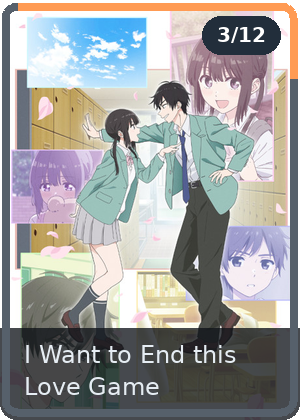
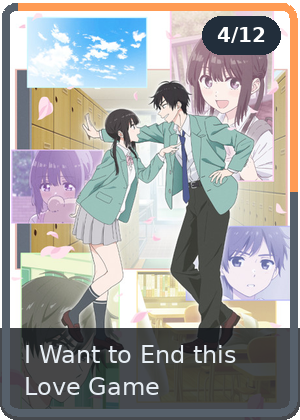
feat: show anime and manga together on profile

Changed region(s): [[0.96, 0.1857, 1.0, 0.4643], [0.72, 0.0619, 0.78, 0.1238]]

diff --git a/scripts/update_anime.py b/scripts/update_anime.py
@@ -12,11 +12,11 @@ from PIL import Image, ImageDraw, ImageFont, ImageOps
 
 USER = os.environ.get("ANILIST_USER", "Suzune889")
 README = Path(__file__).resolve().parent.parent / "README.md"
-CARDS = README.parent / "assets" / "anime"
+ASSETS = README.parent / "assets"
 USER_AGENT = "Suzune-Profile-Anime/1.0 (+https://github.com/midori-suzune/midori-suzune)"
 QUERY = """
 query ($name: String) {
-  Page(perPage: 6) {
+  anime: Page(perPage: 3) {
     mediaList(userName: $name, type: ANIME, sort: UPDATED_TIME_DESC) {
       progress
       media {
@@ -24,6 +24,18 @@ query ($name: String) {
         title { english romaji }
         siteUrl
         episodes
+        coverImage { extraLarge }
+      }
+    }
+  }
+  manga: Page(perPage: 3) {
+    mediaList(userName: $name, type: MANGA, sort: UPDATED_TIME_DESC) {
+      progress
+      media {
+        id
+        title { english romaji }
+        siteUrl
+        chapters
         coverImage { extraLarge }
       }
     }
@@ -39,10 +51,7 @@ def fetch_items():
         headers={
             "Content-Type": "application/json",
             "Accept": "application/json",
-            "User-Agent": (
-                "Suzune-Profile-Anime/1.0 "
-                "(+https://github.com/midori-suzune/midori-suzune)"
-            ),
+            "User-Agent": USER_AGENT,
         },
     )
     try:
@@ -53,10 +62,11 @@ def fetch_items():
         raise RuntimeError(f"AniList HTTP {error.code}: {detail}") from error
     if payload.get("errors"):
         raise RuntimeError("AniList API error: " + json.dumps(payload["errors"]))
-    items = payload["data"]["Page"]["mediaList"]
-    if not isinstance(items, list):
-        raise RuntimeError("AniList did not return an anime list")
-    return items
+    lists = payload["data"]
+    for kind in ("anime", "manga"):
+        if not isinstance(lists[kind]["mediaList"], list):
+            raise RuntimeError(f"AniList did not return a {kind} list")
+    return lists["anime"]["mediaList"], lists["manga"]["mediaList"]
 
 
 def title_lines(title, draw, font, width):
@@ -86,54 +96,55 @@ def display_title(media):
     return media["title"].get("english") or media["title"]["romaji"]
 
 
-def draw_progress_border(card, progress, episodes):
-    if not isinstance(progress, int) or not isinstance(episodes, int) or episodes <= 0:
+def draw_progress_border(card, progress, total, unit):
+    if not isinstance(progress, int):
         return
 
-    # Trace the rounded border clockwise from the top-left corner.
-    left, top, right, bottom, radius = 6, 6, 293, 413, 12
-    points = [(left + radius, top), (right - radius, top)]
-    corners = (
-        (right - radius, top + radius, -90, 0),
-        (right - radius, bottom - radius, 0, 90),
-        (left + radius, bottom - radius, 90, 180),
-        (left + radius, top + radius, 180, 270),
-    )
-    for cx, cy, start, end in corners:
-        for angle in range(start, end + 1, 3):
-            radians = math.radians(angle)
-            points.append((cx + radius * math.cos(radians), cy + radius * math.sin(radians)))
-        if start == -90:
-            points.append((right, bottom - radius))
-        elif start == 0:
-            points.append((left + radius, bottom))
-        elif start == 90:
-            points.append((left, top + radius))
-
     draw = ImageDraw.Draw(card)
-    draw.line(points, fill="#56606b", width=8, joint="curve")
-    remaining = min(max(progress / episodes, 0), 1) * sum(
-        math.dist(a, b) for a, b in zip(points, points[1:])
-    )
-    completed = [points[0]]
-    for start, end in zip(points, points[1:]):
-        length = math.dist(start, end)
-        if remaining < length:
-            completed.append(tuple(a + (b - a) * remaining / length for a, b in zip(start, end)))
-            break
-        completed.append(end)
-        remaining -= length
-    if len(completed) > 1:
-        draw.line(completed, fill="#ff9b54", width=8, joint="curve")
+    if isinstance(total, int) and total > 0:
+        # Trace the rounded border clockwise from the top-left corner.
+        left, top, right, bottom, radius = 6, 6, 293, 413, 12
+        points = [(left + radius, top), (right - radius, top)]
+        corners = (
+            (right - radius, top + radius, -90, 0),
+            (right - radius, bottom - radius, 0, 90),
+            (left + radius, bottom - radius, 90, 180),
+            (left + radius, top + radius, 180, 270),
+        )
+        for cx, cy, start, end in corners:
+            for angle in range(start, end + 1, 3):
+                radians = math.radians(angle)
+                points.append((cx + radius * math.cos(radians), cy + radius * math.sin(radians)))
+            if start == -90:
+                points.append((right, bottom - radius))
+            elif start == 0:
+                points.append((left + radius, bottom))
+            elif start == 90:
+                points.append((left, top + radius))
+
+        draw.line(points, fill="#56606b", width=8, joint="curve")
+        remaining = min(max(progress / total, 0), 1) * sum(
+            math.dist(a, b) for a, b in zip(points, points[1:])
+        )
+        completed = [points[0]]
+        for start, end in zip(points, points[1:]):
+            length = math.dist(start, end)
+            if remaining < length:
+                completed.append(tuple(a + (b - a) * remaining / length for a, b in zip(start, end)))
+                break
+            completed.append(end)
+            remaining -= length
+        if len(completed) > 1:
+            draw.line(completed, fill="#ff9b54", width=8, joint="curve")
 
     font = ImageFont.truetype("/usr/share/fonts/truetype/dejavu/DejaVuSans-Bold.ttf", 20)
-    label = f"{progress}/{episodes}"
+    label = f"{progress}/{total}" if isinstance(total, int) and total > 0 else f"{progress} {unit}"
     text_width = draw.textlength(label, font=font)
     draw.rounded_rectangle((280 - text_width - 28, 16, 280, 54), radius=19, fill="#222e3b")
     draw.text((280 - text_width - 14, 23), label, font=font, fill="#ffffff")
 
 
-def create_card(item):
+def create_card(item, kind):
     media = item["media"]
     request = urllib.request.Request(
         media["coverImage"]["extraLarge"], headers={"User-Agent": USER_AGENT}
@@ -154,7 +165,10 @@ def create_card(item):
     draw = ImageDraw.Draw(card)
     for index, line in enumerate(lines):
         draw.text((24, overlay_top + 12 + index * 32), line, font=font, fill="#e6edf3")
-    draw_progress_border(card, item.get("progress"), media.get("episodes"))
+    draw_progress_border(
+        card, item.get("progress"), media.get("episodes" if kind == "anime" else "chapters"),
+        "ep" if kind == "anime" else "ch",
+    )
     mask = Image.new("L", card.size, 0)
     ImageDraw.Draw(mask).rounded_rectangle((0, 0, 299, 419), radius=16, fill=255)
     card.putalpha(mask)
@@ -163,18 +177,19 @@ def create_card(item):
     return output.getvalue()
 
 
-def render_block(items):
+def render_block(anime, manga):
     cards = []
     files = {}
-    for item in items:
-        media = item["media"]
-        name = f"{int(media['id'])}.png"
-        files[name] = create_card(item)
-        title = html.escape(display_title(media), quote=True)
-        url = html.escape(media["siteUrl"], quote=True)
-        cards.append(f'<a href="{url}"><img src="assets/anime/{name}" width="150" alt="{title}"></a>')
+    for kind, items in (("anime", anime), ("manga", manga)):
+        for item in items:
+            media = item["media"]
+            name = f"{int(media['id'])}.png"
+            files[f"{kind}/{name}"] = create_card(item, kind)
+            title = html.escape(display_title(media), quote=True)
+            url = html.escape(media["siteUrl"], quote=True)
+            cards.append(f'<a href="{url}"><img src="assets/{kind}/{name}" width="150" alt="{kind.title()}: {title}"></a>')
     rows = ["\n".join(cards[index:index + 3]) for index in range(0, len(cards), 3)]
-    content = "\n<br />\n".join(rows) if rows else "No anime activity yet."
+    content = "\n<br />\n".join(rows) if rows else "No anime or manga activity yet."
     block = '<!--ANIME_START-->\n<p align="center">\n' + content + '\n</p>\n<!--ANIME_END-->'
     return block, files
 
@@ -184,16 +199,16 @@ def main():
     pattern = r"<!--ANIME_START-->.*?<!--ANIME_END-->"
     if len(re.findall(pattern, text, flags=re.S)) != 1:
         raise RuntimeError("README must contain exactly one ANIME_START/ANIME_END block")
-    block, files = render_block(fetch_items())
-    CARDS.mkdir(parents=True, exist_ok=True)
+    block, files = render_block(*fetch_items())
     for name, data in files.items():
-        destination = CARDS / name
+        destination = ASSETS / name
+        destination.parent.mkdir(parents=True, exist_ok=True)
         if not destination.exists() or destination.read_bytes() != data:
             destination.write_bytes(data)
     updated = re.sub(pattern, lambda match: block, text, flags=re.S)
     if updated != text:
         README.write_text(updated, encoding="utf-8")
-    print(f"Updated anime list for {USER}")
+    print(f"Updated anime and manga list for {USER}")
 
 
 if __name__ == "__main__":
